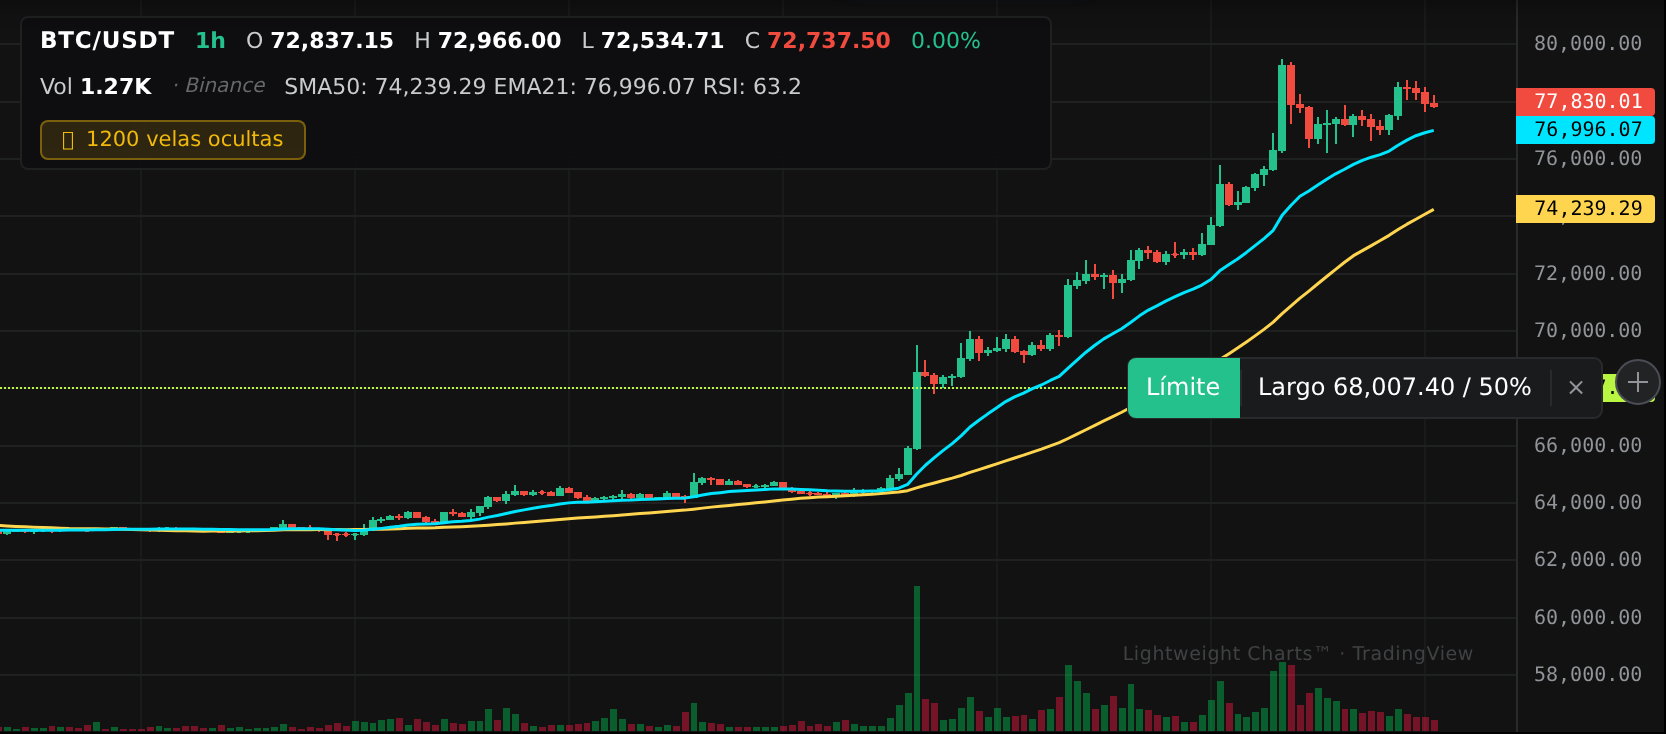
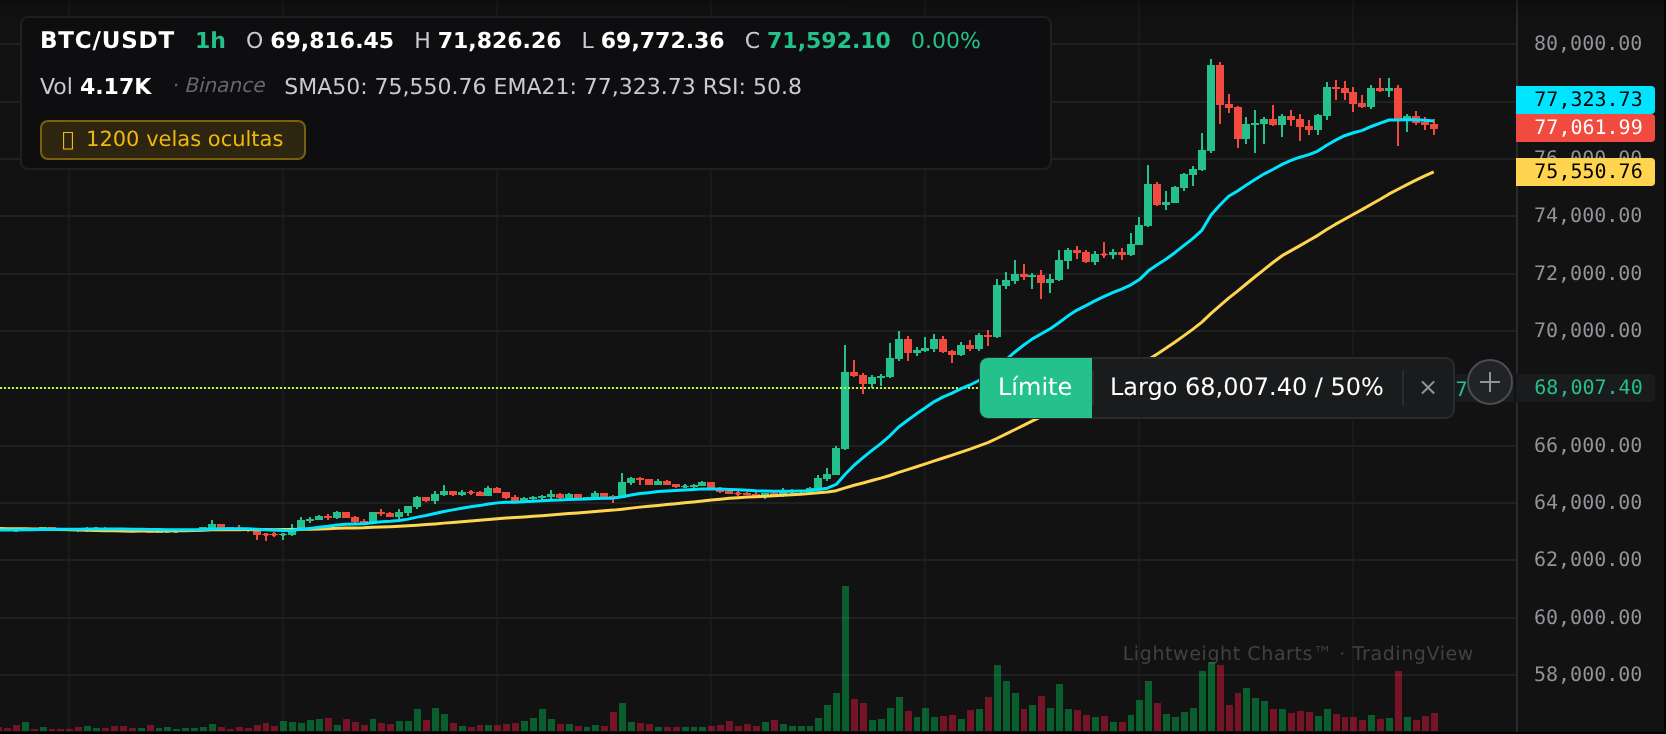
piel(§5.10, 4.ª pasada): el ⊕ va pegado por fuera del eje de precio, sin tapar la etiqueta del precio

diff --git a/bar-replay-pro-unico.html b/bar-replay-pro-unico.html
@@ -9994,6 +9994,12 @@ window.BRP_SNAPSHOT = {"savedAt":"2026-10-07 19:19 UTC","note":"Velas reales de 
 
   /** La palabra del compartmento de la izquierda: la del propio formulario para ese tipo de orden,
       no una cadena nueva del pintor (`Limite`, `Activador`, `Trailing`). */
+  /* Ancho de la columna de etiquetas del eje de precio, medido por la librería (no a ojo). */
+  DT._anchoEje = function () {
+    try { const a = CM.main && CM.main.priceScale('right').width(); return Number.isFinite(a) && a > 0 ? Math.round(a) : 0; }
+    catch (e) { return 0; }
+  };
+
   DT._palabraTipo = function (tipo) {
     const b = document.querySelector('#segOrderType [data-otype="' + (tipo || 'limite') + '"]');
     const t = b ? (b.textContent || '').trim() : '';
@@ -10751,7 +10757,10 @@ window.BRP_SNAPSHOT = {"savedAt":"2026-10-07 19:19 UTC","note":"Velas reales de 
          (#222324 sobre #4a4d55, el + en #919499). Vale para los dos tipos de línea: en el vídeo el menú
          es justamente el de la orden pendiente. */
       const disco = (c2, dcy) => {
-        const D = 24, dcx = w - D - 2;
+        /* El disco va PEGADO POR FUERA del eje de precio, como en el vídeo (t=15,5: el menú de la línea
+           termina justo a la izquierda de la columna de las etiquetas). Antes iba en w-26, encima de la
+           etiqueta del precio de la orden. El ancho del eje lo da la librería; si no lo da, cero. */
+        const D = 24, dcx = w - DT._anchoEje() - D - 2;
         c2.beginPath(); c2.arc(dcx + D / 2, dcy + D / 2, D / 2 - 1, 0, Math.PI * 2);
         c2.fillStyle = '#222324'; c2.fill();
         c2.strokeStyle = '#4a4d55'; c2.lineWidth = 1; c2.stroke();
@@ -10786,7 +10795,7 @@ window.BRP_SNAPSHOT = {"savedAt":"2026-10-07 19:19 UTC","note":"Velas reales de 
            cuando la barra de creacion cae en el tercio derecho la pastilla se anclaba a 10 px del borde y
            su propio compartimento de la x quedaba TAPADO por el disco -que se comprueba antes-: el golpe
            abria el billete en lugar de cancelar la orden. */
-        const margenDcha = 24 + 2 + 6;
+        const margenDcha = DT._anchoEje() + 24 + 2 + 6;
         const gx = Math.max(10, Math.min(xe === null ? 10 : Math.round(xe), Math.max(10, w - anchoGrupo - margenDcha)));
         const cy = Math.round(y - ALTO / 2);
         ctx.beginPath();

diff --git a/js/drawingTools.js b/js/drawingTools.js
@@ -721,6 +721,12 @@
 
   /** La palabra del compartmento de la izquierda: la del propio formulario para ese tipo de orden,
       no una cadena nueva del pintor (`Limite`, `Activador`, `Trailing`). */
+  /* Ancho de la columna de etiquetas del eje de precio, medido por la librería (no a ojo). */
+  DT._anchoEje = function () {
+    try { const a = CM.main && CM.main.priceScale('right').width(); return Number.isFinite(a) && a > 0 ? Math.round(a) : 0; }
+    catch (e) { return 0; }
+  };
+
   DT._palabraTipo = function (tipo) {
     const b = document.querySelector('#segOrderType [data-otype="' + (tipo || 'limite') + '"]');
     const t = b ? (b.textContent || '').trim() : '';
@@ -1478,7 +1484,10 @@
          (#222324 sobre #4a4d55, el + en #919499). Vale para los dos tipos de línea: en el vídeo el menú
          es justamente el de la orden pendiente. */
       const disco = (c2, dcy) => {
-        const D = 24, dcx = w - D - 2;
+        /* El disco va PEGADO POR FUERA del eje de precio, como en el vídeo (t=15,5: el menú de la línea
+           termina justo a la izquierda de la columna de las etiquetas). Antes iba en w-26, encima de la
+           etiqueta del precio de la orden. El ancho del eje lo da la librería; si no lo da, cero. */
+        const D = 24, dcx = w - DT._anchoEje() - D - 2;
         c2.beginPath(); c2.arc(dcx + D / 2, dcy + D / 2, D / 2 - 1, 0, Math.PI * 2);
         c2.fillStyle = '#222324'; c2.fill();
         c2.strokeStyle = '#4a4d55'; c2.lineWidth = 1; c2.stroke();
@@ -1513,7 +1522,7 @@
            cuando la barra de creacion cae en el tercio derecho la pastilla se anclaba a 10 px del borde y
            su propio compartimento de la x quedaba TAPADO por el disco -que se comprueba antes-: el golpe
            abria el billete en lugar de cancelar la orden. */
-        const margenDcha = 24 + 2 + 6;
+        const margenDcha = DT._anchoEje() + 24 + 2 + 6;
         const gx = Math.max(10, Math.min(xe === null ? 10 : Math.round(xe), Math.max(10, w - anchoGrupo - margenDcha)));
         const cy = Math.round(y - ALTO / 2);
         ctx.beginPath();

diff --git a/tests/bitunix.test.js b/tests/bitunix.test.js
@@ -2017,7 +2017,7 @@ const ORDEN_CSS = cssLinks.join(' → ') + (cssLinks[cssLinks.length - 1] === 'b
   await new Promise((r) => setTimeout(r, 500));
   const discos = await page.evaluate(() => {
     const w = Math.round(document.getElementById('overlayCanvas').getBoundingClientRect().width);
-    return { w, lienzo: w, cajas: (DT._cajasPlus || []).map((k) => ({ id: k.id, x: Math.round(k.x), y: Math.round(k.y), w: k.w, h: k.h })),
+    return { w, lienzo: w, eje: DT._anchoEje(), cajas: (DT._cajasPlus || []).map((k) => ({ id: k.id, x: Math.round(k.x), y: Math.round(k.y), w: k.w, h: k.h })),
       ids: (DT.tradeHandles || []).map((h) => h.id).join(','),
       precio: (TE.state.pending[TE.state.pending.length - 1] || {}).limitPrice,
       id: (TE.state.pending[TE.state.pending.length - 1] || {}).id };
@@ -2181,8 +2181,8 @@ const ORDEN_CSS = cssLinks.join(' → ') + (cssLinks[cssLinks.length - 1] === 'b
   }, kAntes);
 
   ok(discos.cajas.length >= 1 && discos.cajas.every((k) => k.w === 24 && k.h === 24)
-    && disco.x === discos.lienzo - 24 - 2 && disco.y > 0,
-    `el disco con + mide 24x24 (los iconos de cabecera medidos en el sitio) y esta pegado al eje: x=${disco.x} de un lienzo de ${discos.lienzo}`);
+    && disco.x === discos.lienzo - discos.eje - 24 - 2 && discos.eje > 40 && disco.y > 0,
+    `el disco con + mide 24x24 (los iconos de cabecera medidos en el sitio) y va PEGADO POR FUERA del eje de precio (eje ${discos.eje} px, medido por la librería): x=${disco.x} de un lienzo de ${discos.lienzo}`);
   ok(editK.abierto && editK.editar.tipo === 'limit' && String(editK.editar.id) === String(discos.id)
     && Math.abs(parseFloat(editK.precio) - discos.precio) < 0.51,
     `el clic en el disco abre el billete EN MODO EDICION de esa orden (${editK.editar.tipo} #${editK.editar.id}, precio ${editK.precio})`);

diff --git a/docs/brecha-visual-bitunix.md b/docs/brecha-visual-bitunix.md
@@ -807,6 +807,17 @@ argumento para dejarlo.
   del Trigger es gris discontinua, pero eso es un estado de creación, no una orden colocada; cambiar el color de
   marca sin medirlo en el sitio sería inventar.
 
+#### 5.10 · cuarta pasada (séptimo enlace al mismo vídeo; fotogramas t=15,5 y t=17 a 4800×2700)
+
+- **El `⊕` va PEGADO POR FUERA del eje de precio.** En t=15,5 el menú de la línea termina justo a la izquierda de la
+  columna de etiquetas; el nuestro iba en `w−26`, encima de la etiqueta del precio (`68,007.40`) y la tapaba. Ahora
+  `x = w − ancho_del_eje − 24 − 2`, con el ancho del eje medido por la librería (`CM.main.priceScale('right').width()`,
+  74 px en 1440). El margen derecho del cartel usa el mismo ancho. Anclado: el disco termina donde empieza el eje.
+- **Lo que no se ve en el vídeo y no se inventa**: el disco en el trigger de creación (t=17): ahí no hay `⊕`, sólo el
+  cartel en modo borrador. Sale únicamente en las órdenes ya colocadas, y así lo tenemos.
+- `test:bitunix` 295 ✓ / 0 ✗; vecinos verdes (`limite-arrastrar` 26, `dibujos` 18, `gesto` 12, `responsive` 200,
+  `formulario` 33, `limites` 14, `hedge` 74, `dom.smoke` 51, `browser.capture` 47).
+
 ## 6 · Lo que quedó ATERRIZADO en esta pasada (y lo que no)
 
 **Aplicado y medido después de aplicar:**
